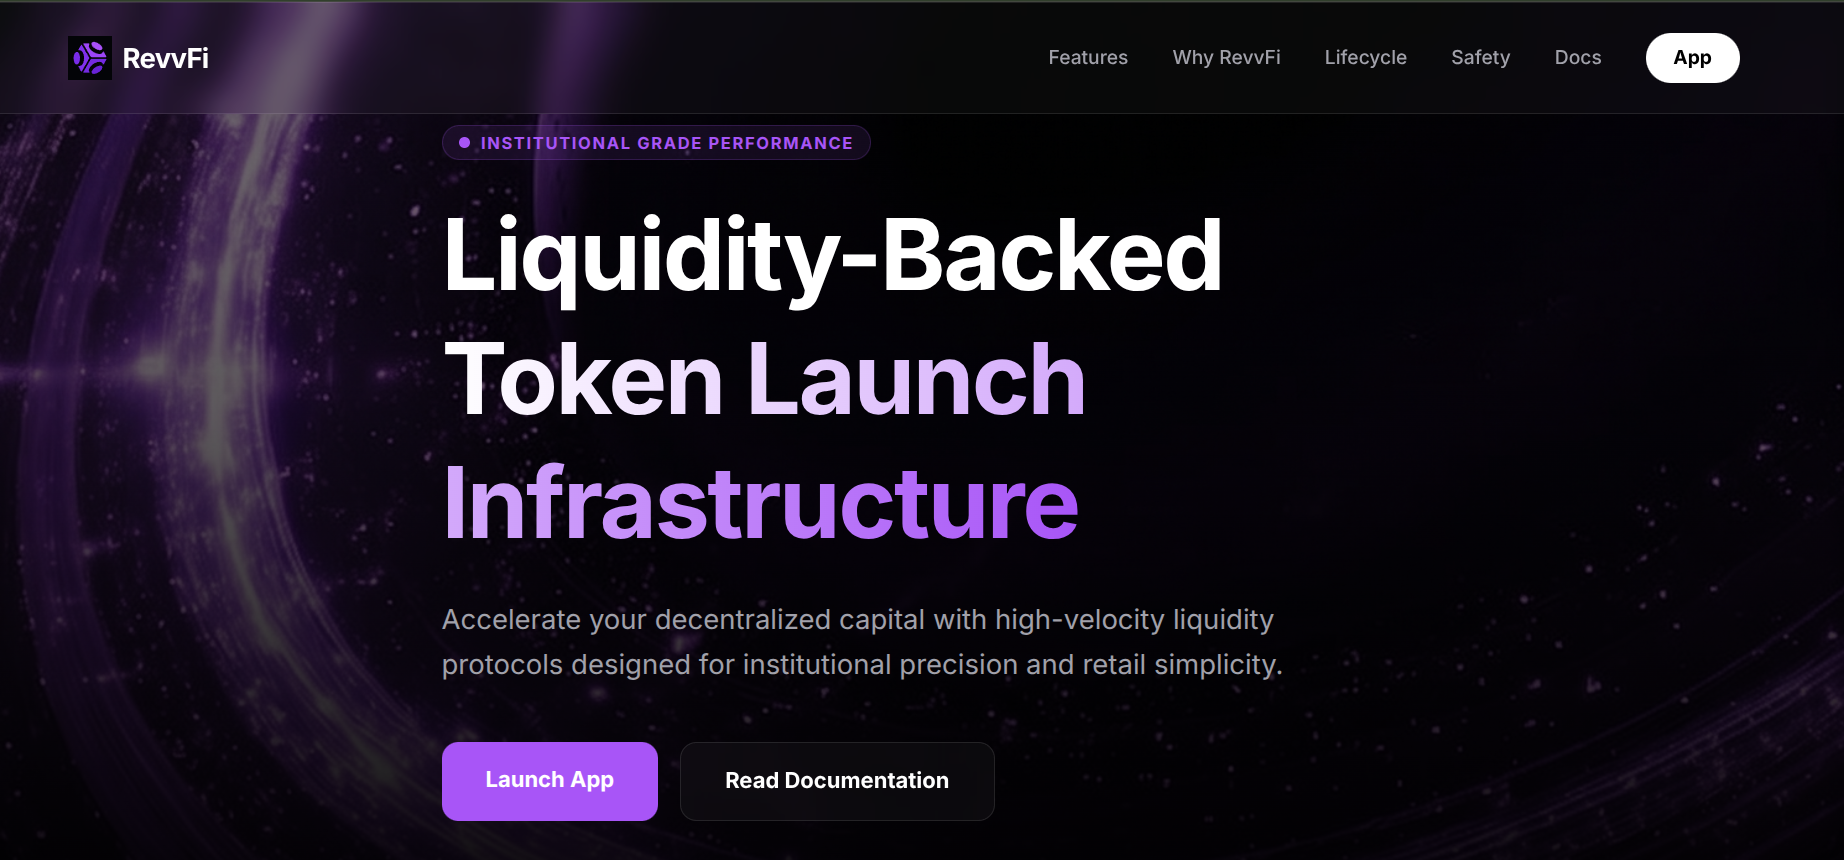
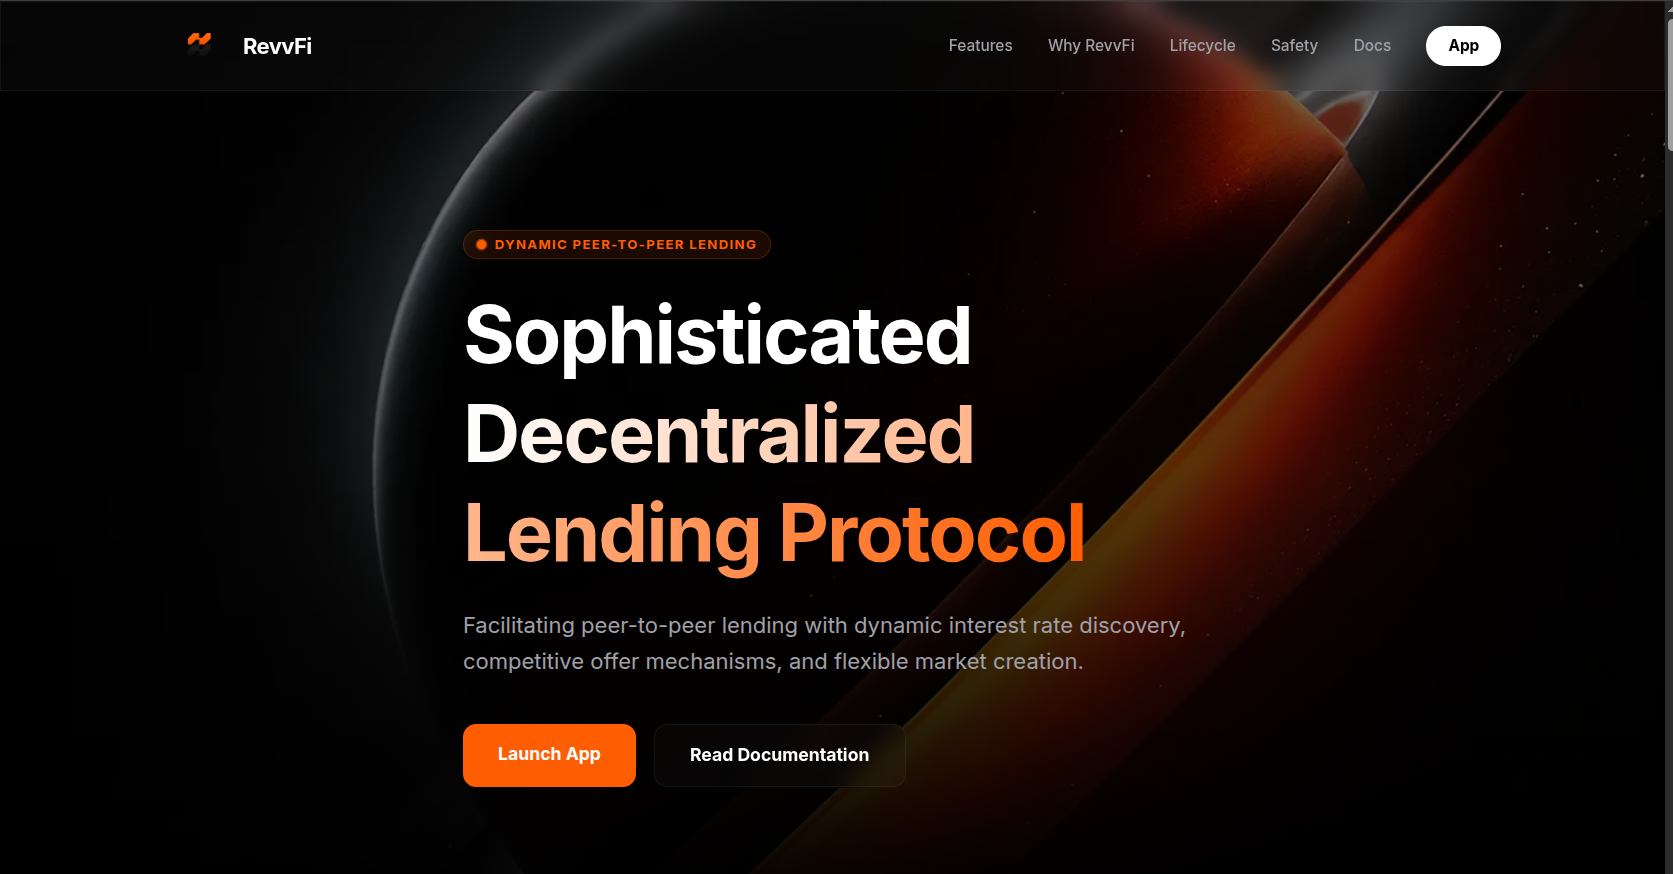
feat: redesign RevvFi landing page

diff --git a/src/styles/global.css b/src/styles/global.css
@@ -1,10 +1,10 @@
 @import "tailwindcss";
 
 @theme {
-  --color-primary: #a855f7;
+  --color-primary: #ff5d01;
   --color-primary-foreground: #ffffff;
-  --color-secondary: #1e1b4b;
-  --color-accent: #f472b6;
+  --color-secondary: #0a0a0a;
+  --color-accent: #ff8a3d;
   --color-background: #000000;
   --color-foreground: #ffffff;
   --color-muted: #18181b;
@@ -21,18 +21,18 @@
 }
 
 .glass {
-  background: rgba(255, 255, 255, 0.03);
+  background: rgba(255, 255, 255, 0.02);
   backdrop-filter: blur(10px);
-  border: 1px solid rgba(255, 255, 255, 0.1);
+  border: 1px solid rgba(255, 255, 255, 0.05);
 }
 
 .text-gradient {
-  background: linear-gradient(to right, #ffffff, #a855f7);
+  background: linear-gradient(to right, #ffffff, #ff5d01);
   background-clip: text;
   -webkit-background-clip: text;
   -webkit-text-fill-color: transparent;
 }
 
-.bg-purple-gradient {
-  background: linear-gradient(135deg, #a855f7 0%, #7c3aed 100%);
+.bg-primary-gradient {
+  background: linear-gradient(135deg, #ff5d01 0%, #b34100 100%);
 }
